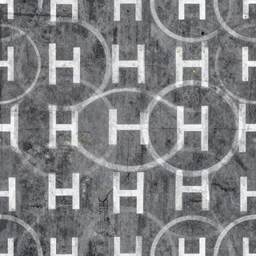
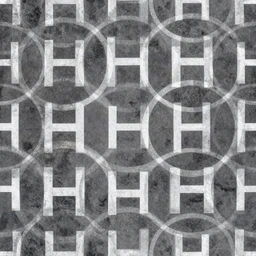
fix: regenerate helipad with single H marker + clip to elliptical pad shape
- Old texture had repeating H markers and rings (tileable pattern)
- New prompt: single H, single ring, no repeating patterns
- Added elliptical geometry mask to clip texture to pad shape
- Bumped cache buster to v262

diff --git a/client/src/game/scene.ts b/client/src/game/scene.ts
@@ -4023,15 +4023,18 @@ export class OfficeScene extends Phaser.Scene {
     // Top surface — AI helipad texture if available, else fallback to procedural
     const helipadKey = AI_OFFICE_TEXTURES.helipad;
     if (this.textures.exists(helipadKey)) {
-      // Use AI texture — scaled to cover the pad area
+      // Use AI texture — scaled to cover the pad area, clipped to ellipse
       const padW = padRX * 2;
       const padH = padRY * 2;
       const padImg = this.add.image(cx, padCY, helipadKey)
         .setOrigin(0.5, 0.5)
-        .setDepth(-0.45)
+        .setDepth(-0.48)
         .setDisplaySize(padW, padH);
-      // Skew the texture slightly to match the 3/4 perspective
-      padImg.setAngle(0);
+      // Create elliptical mask to clip the rectangular texture to the pad shape
+      const maskG = this.make.graphics({}, false);
+      maskG.fillStyle(0xffffff, 1);
+      maskG.fillEllipse(cx, padCY, padW * 0.98, padH * 0.98);
+      padImg.setMask(maskG.createGeometryMask());
     } else {
       // Fallback: procedural asphalt surface
       g.fillStyle(0x383840, 1);

diff --git a/scripts/generate-ai-assets.ts b/scripts/generate-ai-assets.ts
@@ -237,7 +237,7 @@ const ASSETS: AssetDef[] = [
   tile("office_wall_2", "beige painted wall with subtle texture, faint wainscoting lines, office interior, top-down, tileable", 1107, 2),
   tile("office_wall_3", "single large glass window pane filling entire frame, blue tinted glass, subtle reflection, metal frame around edges only, top-down view, tileable, seamless", 1108, 2),
   tile("kitchen_counter", "granite countertop, black speckled, top-down", 1109, 2),
-  tile("office_helipad", "top-down helicopter landing pad, dark asphalt surface with large white H marker in center, white safety circle ring, yellow corner approach lights, weathered concrete, tileable", 1110, 2),
+  tile("office_helipad", "single helicopter landing pad viewed from directly above, one large white H marker centered in frame, one white circle ring around the H, dark weathered asphalt background, no repeating patterns, no tiling, fills entire frame", 1110, 2),
 
   // ------------------------------------------------------- Tier 3: Office furniture (Nano Banana 2 + Bria RMBG)
 

diff --git a/client/src/game/boot.ts b/client/src/game/boot.ts
@@ -57,7 +57,7 @@ export class BootScene extends Phaser.Scene {
     });
 
     // AI texture atlases (replaces 124+ individual requests with 4)
-    const atlasVer = "?v=261";
+    const atlasVer = "?v=262";
     this.load.image("ai-tiles-atlas", `assets/atlases/ai-tiles-atlas.webp${atlasVer}`);
     this.load.json("ai-tiles-atlas-meta", `assets/atlases/ai-tiles-atlas.json${atlasVer}`);
     this.load.image("ai-sprites-atlas", `assets/atlases/ai-sprites-atlas.webp${atlasVer}`);
